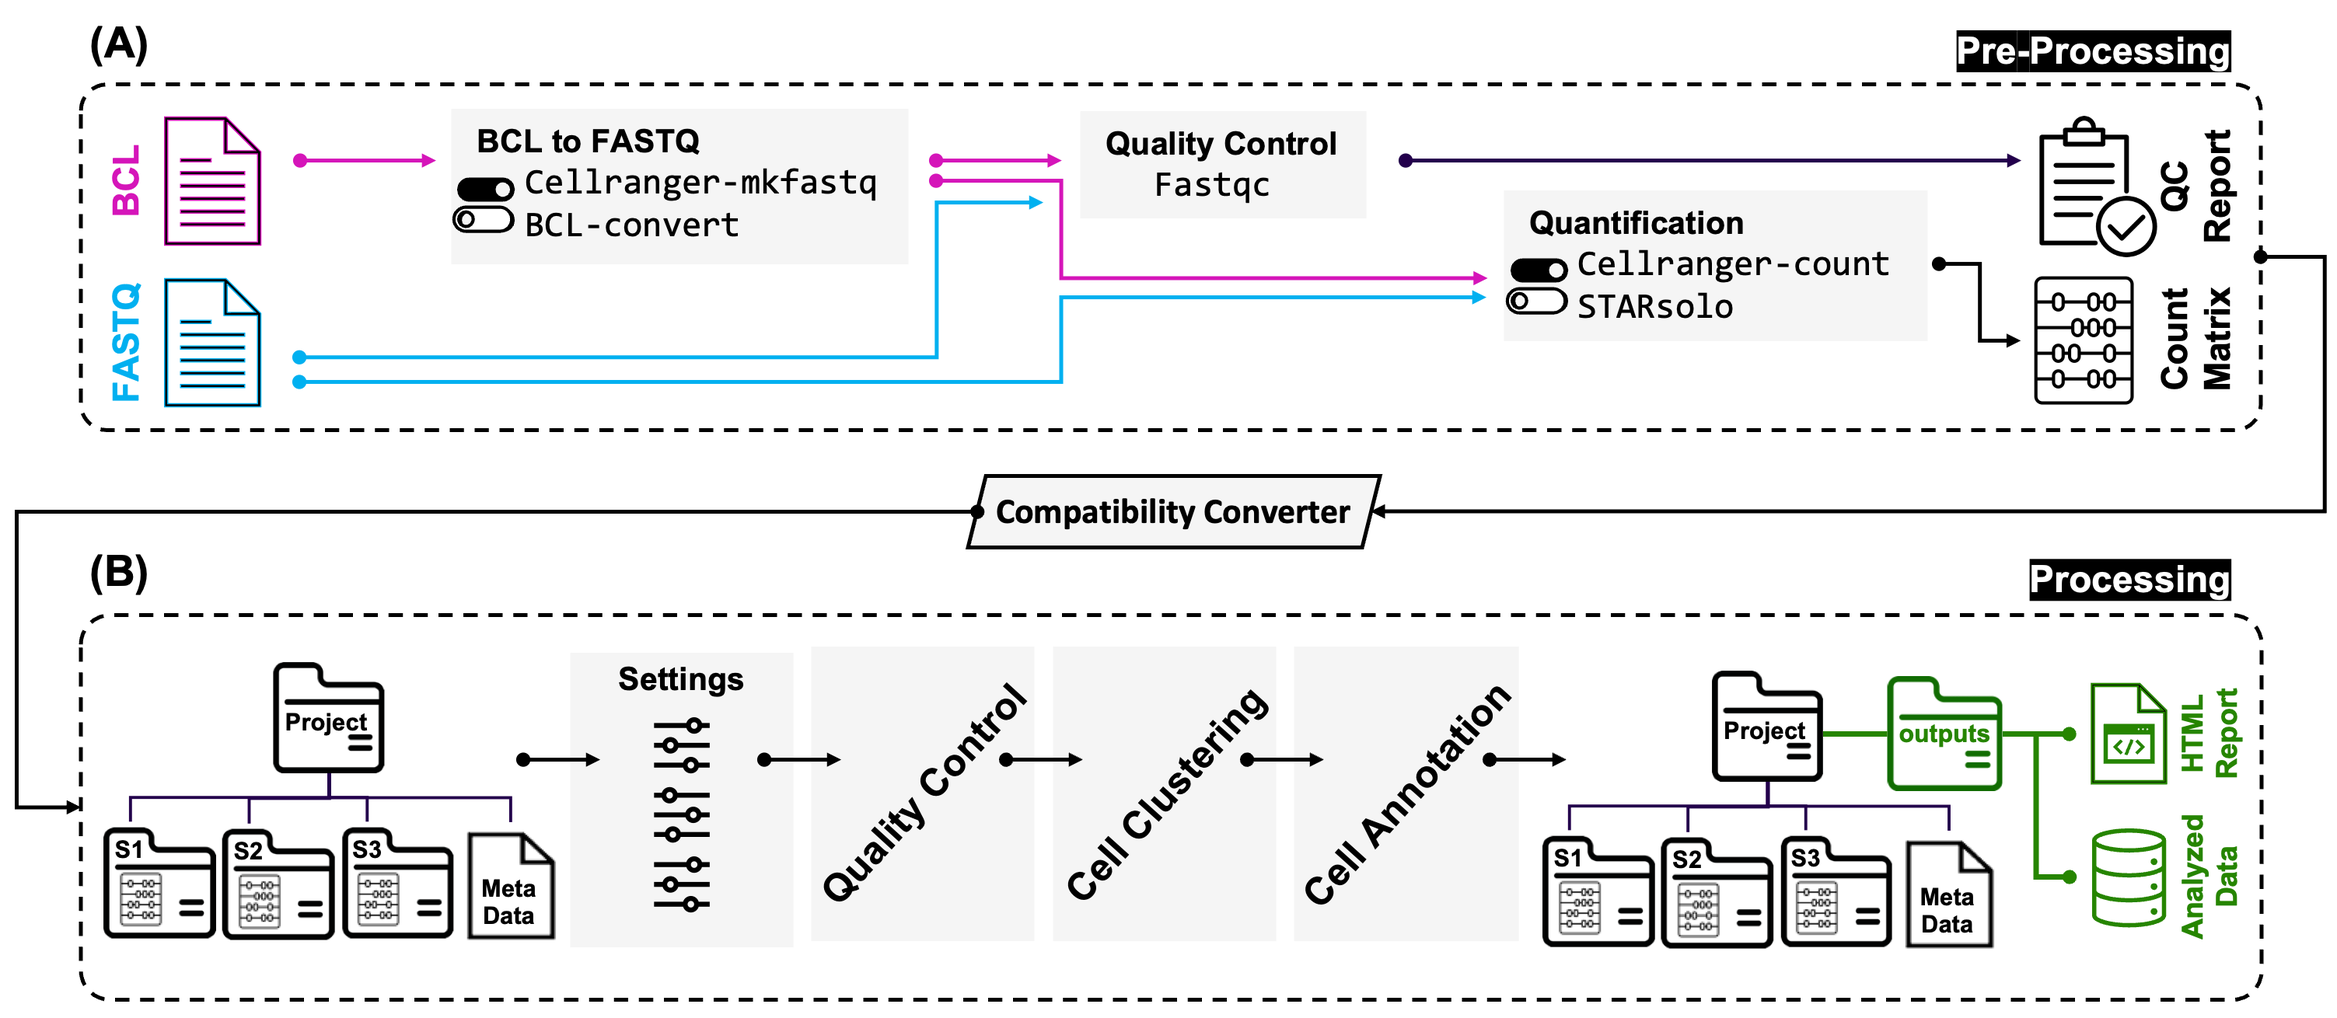
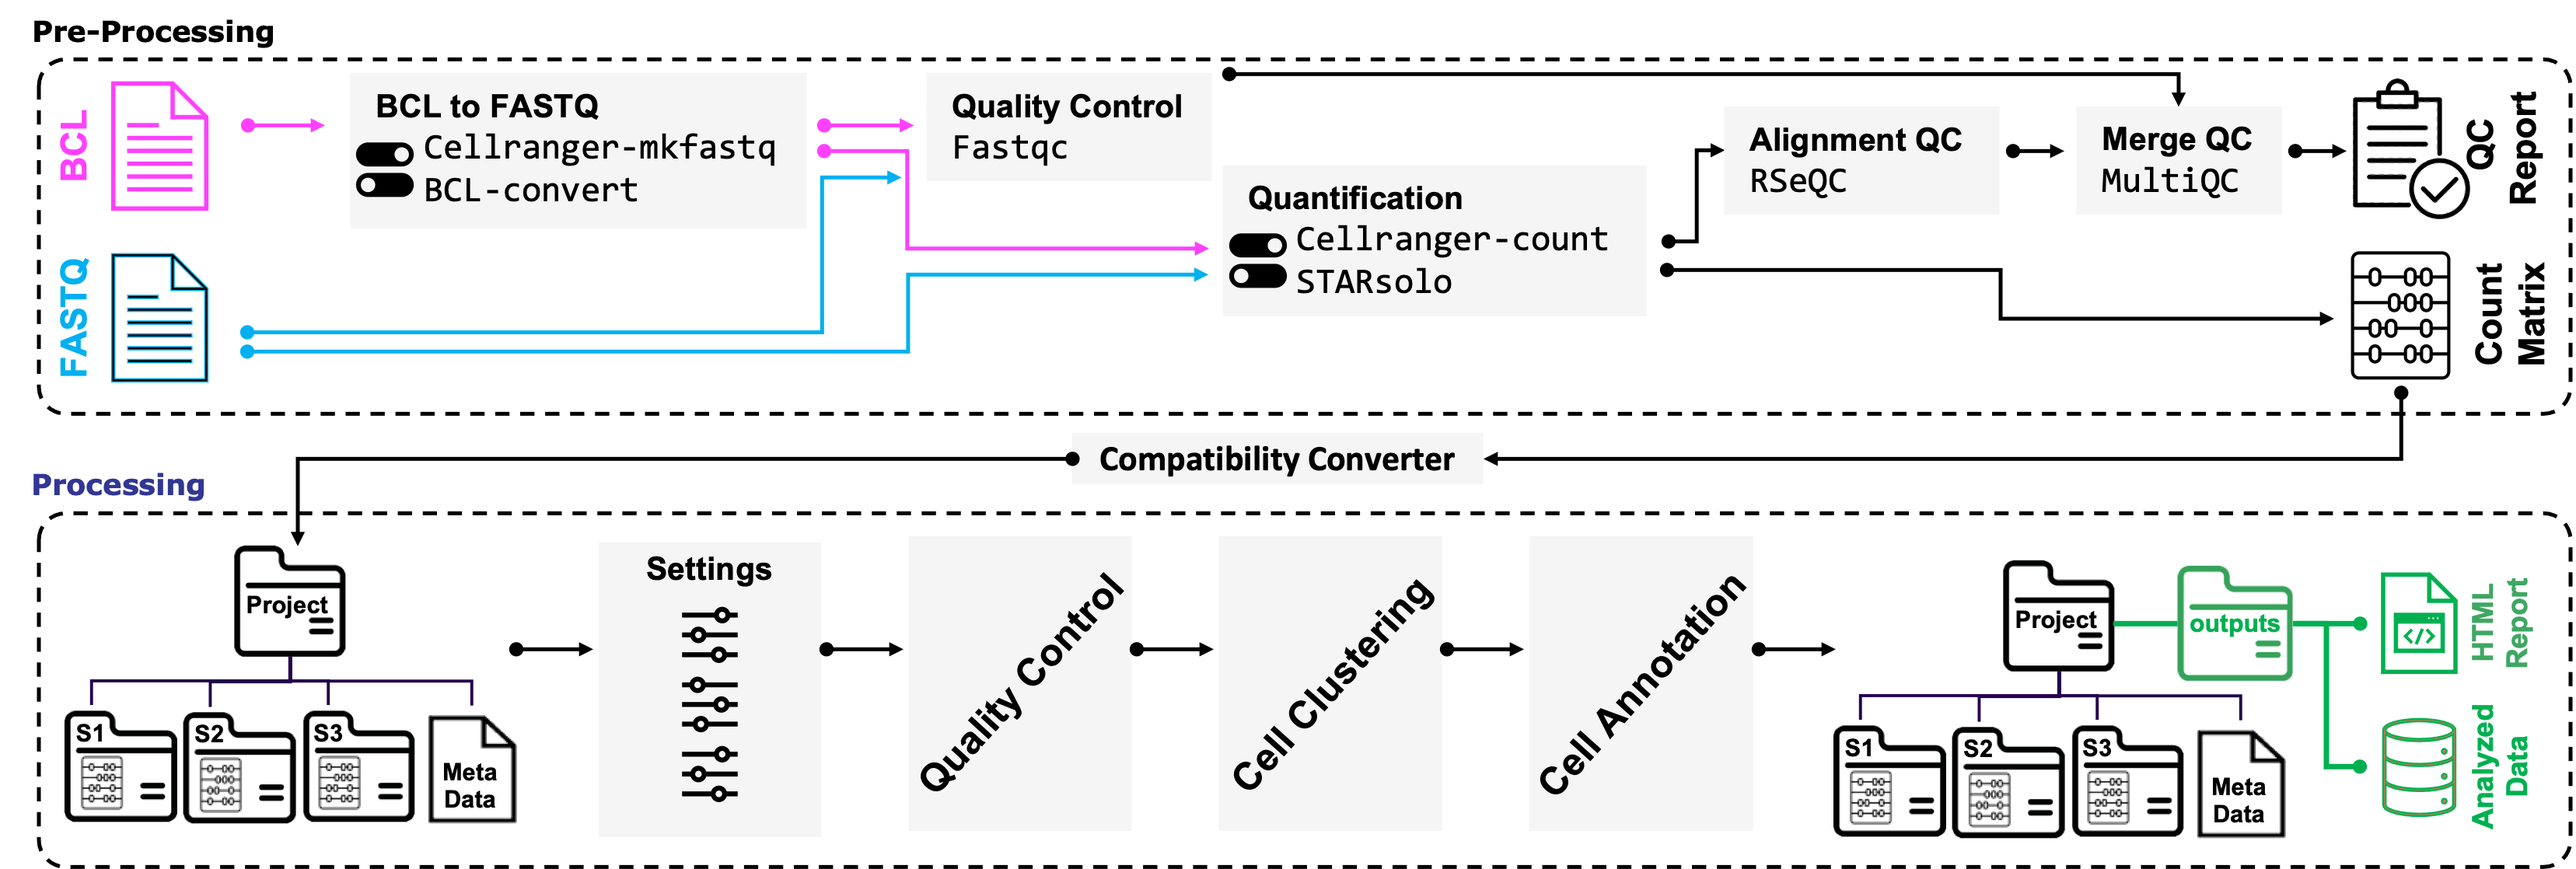
pre-release updates

diff --git a/tobridge_flags.html b/tobridge_flags.html
@@ -1,1 +1,1 @@
-<html><head><title>Parsed Arguments</title></head><body><h1>Flags available for pre-processing (ToBridge)</h1><table><tr><th>Flag</th><th>Default</th><th>Help</th></tr><tr><td>--cr_mkfastq</td><td>False</td><td>Run cellranger make fastq; make sure SampleSheet.csv is in your BCL folders</td></tr><tr><td>--bcl_convert</td><td>False</td><td>Run BCL convert; make sure SampleSheet.csv is in your BCL folders</td></tr><tr><td>--bcl_convert_sheet_conv</td><td>False</td><td>Convert sample sheet to use BCL convert; use this flag if you have a 10x-style sample sheet</td></tr><tr><td>--fastqc</td><td>False</td><td>Run FASTQC</td></tr><tr><td>--star_solo</td><td>False</td><td>Run STARsolo</td></tr><tr><td>--star_solo_chem</td><td>None</td><td>What is the sample chemistry?</td></tr><tr><td>--star_solo_features</td><td>GeneFull_Ex50pAS</td><td>Quantification of different features; currently GeneFull_Ex50pAS (closest to CellRanger) and SJ (splicing analysis) have been tested. You can use them together as 'GeneFull_Ex50pAS SJ'</td></tr><tr><td>--star_solo_genome_generate</td><td>False</td><td>Generate a ref genome for STARsolo</td></tr><tr><td>--cr_count</td><td>False</td><td>Run cellranger count</td></tr><tr><td>--cr_genome_generate</td><td>None</td><td>Provide a name for new cellranger reference genome</td></tr><tr><td>--cr_count_chemistry</td><td>None</td><td>Specify chemistry for cellranger if cannot be detected automatically (rare)</td></tr><tr><td>--cr_count_forcecells</td><td>None</td><td>Force a certain number of cells for cellranger count</td></tr><tr><td>--cr_count_feature</td><td>False</td><td>Feature bacrode assay using cellranger</td></tr><tr><td>--samp</td><td>All</td><td>If you only want cellranger run on specific samples, use this flag, e.g. --samp S1,S5</td></tr><tr><td>--nthreads</td><td>cpu_count-1</td><td>Number of threads; defaults to all minus 1</td></tr></table></body></html>
+<html><head><title>Parsed Arguments</title></head><body><h1>Flags available for pre-processing (ToBridge)</h1><table><tr><th>Flag</th><th>Default</th><th>Help</th></tr><tr><td>--cr_mkfastq</td><td>False</td><td>Run cellranger make fastq; make sure SampleSheet.csv is in your BCL folders</td></tr><tr><td>--bcl_convert</td><td>False</td><td>Run BCL convert; make sure SampleSheet.csv is in your BCL folders</td></tr><tr><td>--bcl_convert_sheet_conv</td><td>False</td><td>Convert sample sheet to use BCL convert; use this flag if you have a 10x-style sample sheet</td></tr><tr><td>--fastqc</td><td>False</td><td>Run FASTQC</td></tr><tr><td>--star_solo</td><td>False</td><td>Run STARsolo</td></tr><tr><td>--star_solo_chem</td><td>None</td><td>What is the sample chemistry? If you run STARsolo, this must be provided. Example: SC3Pv3</td></tr><tr><td>--star_solo_features</td><td>GeneFull_Ex50pAS</td><td>Quantification of different features; currently GeneFull_Ex50pAS (closest to CellRanger) and SJ (splicing analysis) have been tested. You can use them together as 'GeneFull_Ex50pAS SJ'</td></tr><tr><td>--star_solo_genome_generate</td><td>False</td><td>Generate a reference genome for STARsolo</td></tr><tr><td>--star_solo_bam</td><td>True</td><td>Generate sorted BAM files instead of SAMs</td></tr><tr><td>--cr_count</td><td>False</td><td>Run cellranger count</td></tr><tr><td>--cr_genome_generate</td><td>None</td><td>Generate a new cellranger reference genome. Please provide a desired name</td></tr><tr><td>--cr_count_chemistry</td><td>None</td><td>Specify chemistry for cellranger if cannot be detected automatically (rare)</td></tr><tr><td>--cr_count_forcecells</td><td>None</td><td>Force a certain number of cells for cellranger count</td></tr><tr><td>--cr_count_bam</td><td>False</td><td>Produce BAM files upon alignment. Note that the default is to not produce BAMs</td></tr><tr><td>--cr_count_feature</td><td>False</td><td>Feature bacrode assay using cellranger</td></tr><tr><td>--alignment_qc</td><td>False</td><td>Generates a QC report based on alignment results</td></tr><tr><td>--alignment_qc_genebody</td><td>False</td><td>Generates a QC report based on alignment results, which includes genebody coverage (slow)</td></tr><tr><td>--multi_qc</td><td>True</td><td>Generates an HTML report based on all the QC</td></tr><tr><td>--samp</td><td>All</td><td>If you only want cellranger run on specific samples, use this flag, e.g. --samp S1,S5</td></tr><tr><td>--nthreads</td><td>cpu_count-1</td><td>Number of threads; defaults to all minus 1</td></tr></table></body></html>

diff --git a/base_functions.py b/base_functions.py
@@ -3,7 +3,7 @@
 """
 Created on Tue Feb  7 23:51:30 2023
 
-@author: E0463430
+@author: Andre Kurlovs
 """
 
 import csv
@@ -17,6 +17,7 @@ import pandas as pd
 from multiprocessing import Pool
 import pysam
 from datetime import datetime
+import psutil
 
 ########################## TESTING STARTS HERE ############################
 
@@ -79,6 +80,9 @@ def run_bclconvert(ARGDICT):
     dirs_to_convert = glob.glob('/data/input_bcl/*/')
     if not os.path.isdir('/data/bcl_conversion'):
         os.mkdir('/data/bcl_conversion')
+    else:
+        shutil.rmtree('/data/bcl_conversion')
+        os.mkdir('/data/bcl_conversion')
     if not os.path.isdir('/data/input_fastq'):
         os.mkdir('/data/input_fastq')
     if not dirs_to_convert:
@@ -92,7 +96,7 @@ def run_bclconvert(ARGDICT):
                 header = in_sheet.readlines()[0]
                 nlanes = len(glob.glob(f'{dirra}/Data/Intensities/BaseCalls/*/'))
                 if "Lane" in header:
-                    convert_sheet(f'{dirra}/SampleSheet.csv',  ARGDICT["converter_sheet"], nlanes)
+                    convert_sheet(f'{dirra}/SampleSheet.csv', ARGDICT["converter_sheet"], nlanes)
                     print("SAMPLE SHEET CONVERTED TO BCL CONVERT FORMAT. PLEASE DO NOT CONVERT AGAIN")
                 else:
                     print("THE SHEET APPEARS TO NOT BE IN 10X FORMAT. CONVERSION SKIPPED")
@@ -514,6 +518,7 @@ def run_alignment_qc(ARGDICT, alignment_type):
             os.mkdir(alignment_dir)
         
         bams = sorted(glob.glob('/data/cr_count_organized_output/bam_files/*.bam'))
+        ave_bam_load = sum([os.path.getsize(bam) / 2**30 for bam in bams])/len(bams)
         samples = [os.path.basename(bam).split('_possorted')[0] for bam in bams]
     
     if alignment_type == 'star':
@@ -524,14 +529,27 @@ def run_alignment_qc(ARGDICT, alignment_type):
             os.mkdir(alignment_dir)
         
         bams = sorted(glob.glob('/data/STAR_output/*.bam'))
+        ave_bam_load = sum([os.path.getsize(bam) / 2**30 for bam in bams])/len(bams)
         
         # could in the future be multiprocessed
         for bam in bams:
             if not os.path.isfile(f'{bam}.bai'):
                 pysam.index(bam)
         
-        samples = [os.path.basename(bam).split('Aligned')[0] for bam in bams]       
+        samples = [os.path.basename(bam).split('Aligned')[0] for bam in bams] 
     
+    # some functions have high memory load
+    # which can crash the program during multiprocessing
+    # this part will adjust the number of threads
+    total_bam_load = ave_bam_load * ARGDICT['nthreads']
+    actual_bam_load = total_bam_load*0.15 # very approx
+    mem = psutil.virtual_memory()
+    available_memory_gb = mem.available / 2**30
+    if actual_bam_load > available_memory_gb:
+        revised_threads = int(available_memory_gb*(1/0.15) / ave_bam_load)
+    else:
+        revised_threads = ARGDICT['nthreads']
+
     for sample in samples:
         if not os.path.isdir(f'{alignment_dir}/{sample}'):
             os.mkdir(f'{alignment_dir}/{sample}')
@@ -576,7 +594,7 @@ def run_alignment_qc(ARGDICT, alignment_type):
                      f'{alignment_dir}/{sample}')
                     for bam, sample in zip(bams, samples)]
     
-        with Pool(processes=ARGDICT["nthreads"]) as pool:
+        with Pool(processes=revised_threads) as pool:
             pool.starmap(execute_sbp_command, commands)
     
     now = datetime.now()
@@ -602,7 +620,7 @@ def run_alignment_qc(ARGDICT, alignment_type):
                  f'{alignment_dir}/{sample}')
                 for bam, sample in zip(bams, samples)]
 
-    with Pool(processes=ARGDICT["nthreads"]) as pool:
+    with Pool(processes=revised_threads) as pool:
         pool.starmap(execute_sbp_command, commands)
         
     now = datetime.now()
@@ -619,6 +637,8 @@ def run_alignment_qc(ARGDICT, alignment_type):
                 
     with Pool(processes=ARGDICT["nthreads"]) as pool:
         pool.starmap(execute_sbp_command, commands)
+    
+    print('alingment QC done')
 
 
 def run_alignment_qc_master(ARGDICT):

diff --git a/Base.py b/Base.py
@@ -3,7 +3,7 @@
 """
 Created on Tue Feb  7 23:51:30 2023
 
-@author: E0463430
+@author: Andre Kurlovs
 """
 
 import argparse
@@ -33,36 +33,36 @@ PARSER.add_argument("--fastqc", required=False, action='store_true', default=Fal
 PARSER.add_argument("--star_solo", required=False, action='store_true', default=False,
                     help="Run STARsolo")
 PARSER.add_argument("--star_solo_chem", required=False,
-                    help="What is the sample chemistry?")
+                    help="What is the sample chemistry? If you run STARsolo, this must be provided. Example: SC3Pv3")
 PARSER.add_argument("--star_solo_features", required=False, default="GeneFull_Ex50pAS",
                     help=("Quantification of different features; currently GeneFull_Ex50pAS (closest to CellRanger) "
                           "and SJ (splicing analysis) have been tested. You can use them together as 'GeneFull_Ex50pAS SJ'"))
 PARSER.add_argument("--star_solo_genome_generate", action='store_true', required=False,
-                    help="Generate a ref genome for STARsolo")
+                    help="Generate a reference genome for STARsolo")
 PARSER.add_argument("--star_solo_bam", action='store_true', required=False, default=True,
-                    help="Generate BAM instead of SAM")
+                    help="Generate sorted BAM files instead of SAMs")
 
 PARSER.add_argument("--cr_count", required=False, action='store_true', default=False,
                     help="Run cellranger count")
 PARSER.add_argument("--cr_genome_generate", required=False,
-                    help="Provide a name for new cellranger reference genome")
+                    help="Generate a new cellranger reference genome. Please provide a desired name")
 PARSER.add_argument("--cr_count_chemistry", required=False,
                     help="Specify chemistry for cellranger if cannot be detected automatically (rare)")
 PARSER.add_argument("--cr_count_forcecells", required=False,
                     help="Force a certain number of cells for cellranger count")
 PARSER.add_argument("--cr_count_bam", required=False, action="store_true",
-                    help="Produce BAM in the alignment")
+                    help="Produce BAM files upon alignment. Note that the default is to not produce BAMs")
+
+PARSER.add_argument("--cr_count_feature", required=False, action='store_true', default=False,
+                    help="Feature bacrode assay using cellranger")
 
 PARSER.add_argument("--alignment_qc", required=False, action="store_true",
                     help="Generates a QC report based on alignment results")
 PARSER.add_argument("--alignment_qc_genebody", required=False, action="store_true",
-                    help="Generates a QC report based on alignment results which includes genebody coverage")
+                    help="Generates a QC report based on alignment results, which includes genebody coverage (slow)")
 
 PARSER.add_argument("--multi_qc", required=False, action="store_true", default=True,
-                    help="Generates a HTMP report based on all the QC")
-
-PARSER.add_argument("--cr_count_feature", required=False, action='store_true', default=False,
-                    help="Feature bacrode assay using cellranger")
+                    help="Generates an HTML report based on all the QC")
 
 PARSER.add_argument("--samp", required=False, default="All",
                     help="If you only want cellranger run on specific samples, use this flag, e.g. --samp S1,S5")

diff --git a/convert_sample_sheet.py b/convert_sample_sheet.py
@@ -1,0 +1,50 @@
+#!/usr/bin/env python3
+# -*- coding: utf-8 -*-
+"""
+Created on Wed May 31 23:17:45 2023
+
+@author: E0463430
+"""
+
+import pandas as pd
+import glob
+import shutil
+
+def get_conversion_tables(path_to_dir):
+    '''gets all the conversion tables for the sample sheet conversion'''
+    all_conv = []
+    conversion_csvs = glob.glob(f'{path_to_dir}/*.csv')
+    for conv in conversion_csvs:
+        convert = pd.read_csv(conv, index_col=0, header=3)
+        all_conv.append(convert)
+    combino = pd.concat(all_conv)
+    return combino
+
+# this needs to account for a different number of lanes
+# will deal with this
+def convert_sheet(infile, combino, nlanes):
+    '''converts sample sheet from 10x format to bcl convert friendly format'''
+    
+    outfile = infile # override the original file
+    shutil.copy2(infile, "/".join(infile.split("/")[:-1]) + "/SampleSheet10x.csv")
+    infile = "/".join(infile.split("/")[:-1]) + "/SampleSheet10x.csv"
+
+    header = ('[Header]\n'
+              'FileFormatVersion,2\n\n'
+              '[BCLConvert_Settings]\n'
+              'CreateFastqForIndexReads,0\n\n'
+              '[BCLConvert_Data]\n'
+              'Lane,Sample_ID,index,index2\n')
+
+    with open(outfile, "w") as out_handle:
+        out_handle.write(header)
+        with open(infile) as in_handle:
+            for liney in in_handle:
+                parsed_liney = liney.rstrip().split(',')
+                if 'Lane' not in parsed_liney:
+                    if parsed_liney[2] in combino.index:
+                        for lane in range(1, nlanes+1):
+                            out_handle.write(f'{lane},{parsed_liney[1]},{combino.loc[parsed_liney[2], "index(i7)"]},{combino.loc[parsed_liney[2], "index2_workflow_b(i5)"]}'+'\n')
+                    else:
+                        print(f'warning! index {parsed_liney[2]} cannot be converted. please make sure you use the correct and most up-to-date csv files')
+            
